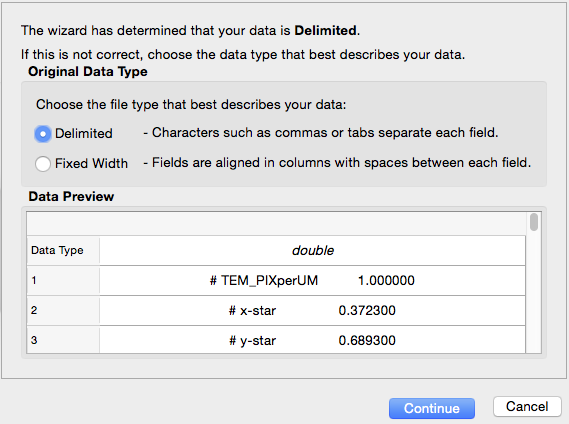
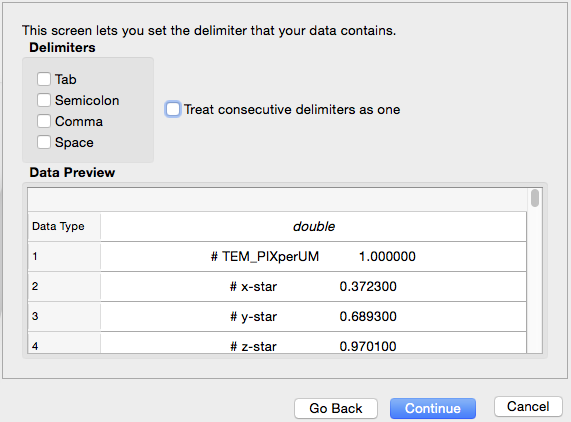
BUG: Fix columns not resizing into a scrollable interface. Updating documentation images to reflect the actual filter. Adding additional details to a few of the error messages in the ImageASCIIData filter Adding a debug() function to the ASCIIWizardData class Add another constructor to the LineCount
updates #564. fixes #564. closes #564

diff --git a/Source/Plugins/IO/Widgets/ImportASCIIDataWizard/ImportASCIIDataWizard.cpp b/Source/Plugins/IO/Widgets/ImportASCIIDataWizard/ImportASCIIDataWizard.cpp
@@ -40,6 +40,7 @@
 #include "DelimitedPage.h"
 #include "DataFormatPage.h"
 #include "ASCIIDataModel.h"
+#include "ASCIIWizardData.hpp"
 
 // -----------------------------------------------------------------------------
 //
@@ -64,6 +65,87 @@ ImportASCIIDataWizard::ImportASCIIDataWizard(const QString &inputFilePath, int n
 
   DataFormatPage* dfPage = new DataFormatPage(inputFilePath, numLines, this);
   setPage(DataFormat, dfPage);
+
+#ifndef Q_OS_MAC
+  setWizardStyle(ModernStyle);
+#else
+  setWizardStyle(MacStyle);
+#endif
+}
+
+// -----------------------------------------------------------------------------
+//
+// -----------------------------------------------------------------------------
+ImportASCIIDataWizard::ImportASCIIDataWizard(ASCIIWizardData* wizardData, QWidget* parent) :
+QWizard(parent)
+{
+  setWindowTitle("ASCII Data Import Wizard");
+  setOptions(QWizard::NoBackButtonOnStartPage /*| QWizard::HaveHelpButton */);
+  setWindowFlags(windowFlags() & ~Qt::WindowContextHelpButtonHint);
+  resize(721, 683);
+
+  // This adds the refresh button that refreshes the preview table.  We may use this on a future release.
+  //m_RefreshBtn = new QPushButton("Refresh", this);
+  //connect(m_RefreshBtn, SIGNAL(pressed()), this, SLOT(refreshModel()));
+  //setButton(QWizard::HelpButton, m_RefreshBtn);
+
+  DelimitedPage* dPage = new DelimitedPage(m_InputFilePath, m_NumLines, this);
+  setPage(Delimited, dPage);
+
+  DataFormatPage* dfPage = new DataFormatPage(m_InputFilePath, m_NumLines, this);
+  setPage(DataFormat, dfPage);
+  dfPage->getTupleTable()->clearTupleDimensions();
+  dfPage->getTupleTable()->addTupleDimensions(wizardData->tupleDims);
+
+
+  setField("consecutiveDelimiters", wizardData->consecutiveDelimiters);
+
+  setField("tabAsDelimiter", false);
+  setField("semicolonAsDelimiter", false);
+  setField("commaAsDelimiter", false);
+  setField("spaceAsDelimiter", false);
+
+
+  if(wizardData->delimiters.contains('\t'))
+  {
+    setField("tabAsDelimiter", true);
+  }
+  if(wizardData->delimiters.contains(';'))
+  {
+     setField("semicolonAsDelimiter", true);
+  }
+  if(wizardData->delimiters.contains(','))
+  {
+    setField("commaAsDelimiter", true);
+  }
+  if(wizardData->delimiters.contains(' '))
+  {
+    setField("spaceAsDelimiter", true);
+  }
+
+  m_InputFilePath = wizardData->inputFilePath;
+
+  QStringList dataHeaders = wizardData->dataHeaders;
+
+  ASCIIDataModel* model = ASCIIDataModel::Instance();
+  if(model->columnCount() < dataHeaders.size())
+  {
+    model->clearContents();
+    model->insertColumns(0, dataHeaders.size());
+  }
+  for(int col = 0; col < dataHeaders.size(); col++)
+  {
+    model->setHeaderData(col, Qt::Horizontal, dataHeaders.at(col), Qt::DisplayRole);
+  }
+
+  setField("startRow", wizardData->beginIndex);
+  m_NumLines = wizardData->numberOfLines;
+
+  QStringList dataTypes = wizardData->dataTypes;
+  for(int i = 0; i < dataTypes.size(); i++)
+  {
+    model->setColumnDataType(i, dataTypes.at(i));
+  }
 
 #ifndef Q_OS_MAC
   setWizardStyle(ModernStyle);

diff --git a/Source/Plugins/IO/IOFilters/ImportASCIIData.cpp b/Source/Plugins/IO/IOFilters/ImportASCIIData.cpp
@@ -146,6 +146,7 @@ void ImportASCIIData::readFilterParameters(QJsonObject &obj)
     {
       tupleDims.push_back(static_cast<size_t>(jsonArray[i].toInt()));
     }
+
     m_WizardData.tupleDims = tupleDims;
   }
 }
@@ -252,14 +253,18 @@ void ImportASCIIData::dataCheck()
   AttributeMatrix::Pointer am = getDataContainerArray()->getAttributeMatrix(m_AttributeMatrixPath);
   if (NULL == am.get())
   {
-    QString ss = "The attribute matrix input is empty.  Please select an attribute matrix.";
+    QString ss = "The attribute matrix input is empty. Please select an attribute matrix.";
     setErrorCondition(EMPTY_ATTR_MATRIX);
     notifyErrorMessage(getHumanLabel(), ss, getErrorCondition());
     return;
   }
   else if (am->getTupleDimensions() != tDims)
   {
+
     QString ss = "The attribute matrix '" + m_AttributeMatrixPath.getAttributeMatrixName() + "' does not have the same tuple dimensions as the data in the file '" + fi.fileName() + "'.";
+    QTextStream out(&ss);
+    out << m_AttributeMatrixPath.getAttributeMatrixName() << " tuple dims: " << am->getTupleDimensions().at(0) << "\n";
+    out << fi.fileName() << "tuple dims: " << tDims[0] << "\n";
     setErrorCondition(INCONSISTENT_TUPLES);
     notifyErrorMessage(getHumanLabel(), ss, getErrorCondition());
     return;
@@ -472,7 +477,11 @@ void ImportASCIIData::execute()
 
       if (dataTypes.size() != tokens.size())
       {
-        QString ss = "Line " + QString::number(lineNum) + " has an inconsistent number of columns.";
+        QString ss = "Line " + QString::number(lineNum) + " has an inconsistent number of columns.\n";
+        QTextStream out(&ss);
+        out << "Expecting " << dataTypes.size() << " but found " << tokens.size() << "\n";
+        out << "Input line was:\n";
+        out << line;
         setErrorCondition(INCONSISTENT_COLS);
         notifyErrorMessage(getHumanLabel(), ss, getErrorCondition());
         return;

diff --git a/Source/Plugins/IO/Widgets/ImportASCIIDataWizard/LineCounterObject.h b/Source/Plugins/IO/Widgets/ImportASCIIDataWizard/LineCounterObject.h
@@ -42,29 +42,44 @@
 
 class LineCounterObject : public QObject
 {
-  Q_OBJECT
+    Q_OBJECT
 
-public:
-  LineCounterObject(const QString &filePath, QObject *parent = NULL);
+  public:
 
-  virtual ~LineCounterObject();
+    /**
+   * @brief LineCounterObject
+   * @param filePath
+   * @param parent
+   */
+    LineCounterObject(const QString &filePath, QObject *parent = NULL);
 
-  int getNumberOfLines();
+    /**
+   * @brief LineCounterObject
+   * @param filePath
+   * @param numLines
+   * @param parent
+   */
+    LineCounterObject(const QString &filePath, int numLines, QObject *parent = NULL);
 
-protected slots:
-  void run();
+    virtual ~LineCounterObject();
 
-signals:
-  void finished();
-  void progressUpdateGenerated(double percentage);
 
-private:
-  QString                                               m_FilePath;
+    int getNumberOfLines();
 
-  int                                                   m_NumOfLines;
+  protected slots:
+    void run();
 
-  LineCounterObject(const LineCounterObject&); // Copy Constructor Not Implemented
-  void operator=(const LineCounterObject&); // Operator '=' Not Implemented
+  signals:
+    void finished();
+    void progressUpdateGenerated(double percentage);
+
+  private:
+    QString                                               m_FilePath;
+
+    int                                                   m_NumOfLines;
+
+    LineCounterObject(const LineCounterObject&); // Copy Constructor Not Implemented
+    void operator=(const LineCounterObject&); // Operator '=' Not Implemented
 };
 
 #endif /* _linecounterobject_h_ */

diff --git a/Source/Plugins/IO/Widgets/ImportASCIIDataWizard/TupleTableWidget.cpp b/Source/Plugins/IO/Widgets/ImportASCIIDataWizard/TupleTableWidget.cpp
@@ -111,6 +111,22 @@ void TupleTableWidget::addTupleDimensions(QVector<size_t> tupleDims)
 // -----------------------------------------------------------------------------
 //
 // -----------------------------------------------------------------------------
+void TupleTableWidget::clearTupleDimensions()
+{
+
+  while(tupleTable->columnCount() > 0)
+  {
+    tupleTable->removeColumn(0);
+    if (tupleTable->columnCount() == 0)
+    {
+      tupleTable->removeRow(0);
+    }
+  }
+}
+
+// -----------------------------------------------------------------------------
+//
+// -----------------------------------------------------------------------------
 void TupleTableWidget::addColumn(int value)
 {
   int col = tupleTable->columnCount();

diff --git a/Source/Plugins/IO/Widgets/ImportASCIIDataWizard/ASCIIWizardData.hpp b/Source/Plugins/IO/Widgets/ImportASCIIDataWizard/ASCIIWizardData.hpp
@@ -37,6 +37,7 @@
 #ifndef _asciiwizarddata_h_
 #define _asciiwizarddata_h_
 
+#include <QtCore/QDebug>
 #include <QtCore/QVector>
 #include <QtCore/QStringList>
 #include <QtCore/QMetaType>
@@ -69,6 +70,19 @@ public:
       return true;
     }
     return false;
+  }
+
+  void debug()
+  {
+      qDebug() << "inputFilePath: " << inputFilePath;
+      qDebug() << "dataHeaders: " << dataHeaders;
+      qDebug() << "beginIndex: " << beginIndex;
+      qDebug() << "numberOfLines: " << numberOfLines;
+      qDebug() << "dataTypes:" << dataTypes;
+      qDebug() << "delimiters: " << delimiters;
+      qDebug() << "consecutiveDelimiters: " << consecutiveDelimiters;
+      qDebug() << "tupleDims:" << tupleDims;
+
   }
 };
 

diff --git a/Source/Plugins/IO/FilterParameterWidgets/ImportASCIIDataWidget.cpp b/Source/Plugins/IO/FilterParameterWidgets/ImportASCIIDataWidget.cpp
@@ -104,8 +104,16 @@ void ImportASCIIDataWidget::setupGui()
   // If the filter was loaded from a pipeline file, fill in the information in the widget
   if (m_Filter->getWizardData().isEmpty() == false)
   {
+
+    ASCIIWizardData wizardData = m_Filter->getWizardData();
+    m_ImportWizard = new ImportASCIIDataWizard(&wizardData, this);
+
     int beginIndex = m_Filter->getWizardData().beginIndex;
     int numOfDataLines = m_Filter->getWizardData().numberOfLines - beginIndex + 1;
+
+    m_LineCounter = new LineCounterObject(m_FilePath, m_Filter->getWizardData().numberOfLines);
+
+
     QVector<size_t> tupleDimsArray = m_Filter->getWizardData().tupleDims;
 
     if (tupleDimsArray.size() > 0)

diff --git a/Source/Plugins/IO/Widgets/ImportASCIIDataWizard/LineCounterObject.cpp b/Source/Plugins/IO/Widgets/ImportASCIIDataWizard/LineCounterObject.cpp
@@ -53,6 +53,17 @@ LineCounterObject::LineCounterObject(const QString &filePath, QObject* parent) :
 // -----------------------------------------------------------------------------
 //
 // -----------------------------------------------------------------------------
+LineCounterObject::LineCounterObject(const QString &filePath, int numLines, QObject* parent) :
+  QObject(parent),
+  m_FilePath(filePath),
+  m_NumOfLines(numLines)
+{
+
+}
+
+// -----------------------------------------------------------------------------
+//
+// -----------------------------------------------------------------------------
 LineCounterObject::~LineCounterObject()
 {
 

diff --git a/Source/Plugins/IO/Widgets/ImportASCIIDataWizard/ImportASCIIDataWizard.h b/Source/Plugins/IO/Widgets/ImportASCIIDataWizard/ImportASCIIDataWizard.h
@@ -51,6 +51,7 @@ struct ImportASCIIDataBundle
 Q_DECLARE_METATYPE(ImportASCIIDataBundle)
 
 class ASCIIDataModel;
+class ASCIIWizardData;
 
 class ImportASCIIDataWizard : public QWizard
 {
@@ -70,6 +71,12 @@ class ImportASCIIDataWizard : public QWizard
     * @param parent The parent QWidget for this Widget
     */
     ImportASCIIDataWizard(const QString &inputFilePath, int numLines, QWidget* parent = NULL);
+
+    /**
+     * @brief ImportASCIIDataWizard
+     * @param wizardData
+     */
+    ImportASCIIDataWizard(ASCIIWizardData* wizardData, QWidget* parent = NULL);
 
     virtual ~ImportASCIIDataWizard();
 

diff --git a/Source/Plugins/IO/Widgets/ImportASCIIDataWizard/DataFormatPage.cpp b/Source/Plugins/IO/Widgets/ImportASCIIDataWizard/DataFormatPage.cpp
@@ -72,7 +72,7 @@ void DataFormatPage::setupGui()
   ASCIIDataModel* model = ASCIIDataModel::Instance();
 
   dataView->setModel(model);
-  dataView->horizontalHeader()->setSectionResizeMode(QHeaderView::Stretch);
+//  dataView->horizontalHeader()->setSectionResizeMode(QHeaderView::Stretch);
 
   connect(dataView->selectionModel(), SIGNAL(selectionChanged(const QItemSelection&, const QItemSelection&)), this, SLOT(updateSelection(const QItemSelection&, const QItemSelection&)));
   connect(tupleDimsTable, SIGNAL(tupleDimsChanged(QVector<size_t>)), this, SLOT(checkTupleDimensions(QVector<size_t>)));

diff --git a/Source/Plugins/IO/Widgets/ImportASCIIDataWizard/DelimitedPage.cpp b/Source/Plugins/IO/Widgets/ImportASCIIDataWizard/DelimitedPage.cpp
@@ -68,7 +68,7 @@ void DelimitedPage::setupGui()
   refreshModel();
 
   dataView->setModel(model);
-  dataView->horizontalHeader()->setSectionResizeMode(QHeaderView::Stretch);
+  //dataView->horizontalHeader()->setSectionResizeMode(QHeaderView::Stretch);
 
   registerField("tabAsDelimiter", tabCheckBox);
   registerField("semicolonAsDelimiter", semicolonCheckBox);

diff --git a/Source/Plugins/IO/Widgets/ImportASCIIDataWizard/TupleTableWidget.h b/Source/Plugins/IO/Widgets/ImportASCIIDataWizard/TupleTableWidget.h
@@ -71,6 +71,7 @@ class TupleTableWidget : public QWidget, private Ui::TupleTableWidget
     QVector<size_t> getData();
 
     void addTupleDimensions(QVector<size_t> tupleDims);
+    void clearTupleDimensions();
 
   public slots:
     void on_addTupleBtn_pressed();

diff --git a/Source/Plugins/IO/Documentation/IOFilters/ImportASCIIData.md b/Source/Plugins/IO/Documentation/IOFilters/ImportASCIIData.md
@@ -11,13 +11,11 @@ This **Filter** reads ASCII data from any text-based file and imports the data i
 
 ### Separating the Data ###
 
-After clicking the **Import Data...** button and selecting a file, a wizard appears.  The user can choose whether their data is **Delimited** or **Fixed Width**:
+After clicking the **Import Data...** button and selecting a file, a wizard appears. The user can choose how the data is delimited: comma (,), tab, semicolon (;) or space ( ). The user may also elect to treat consecutive delimiters as one delimiter.
 
 ![Selecting how the data is separated](Import_ASCII_1.png)
 
 ### Selecting the Delimiter ###
-
-If the user chose **Delimited**, the next screen allows the user to pick delimiters.  The options are **Tab**, **Semicolon**, **Comma**, and **Space**.  The user may also elect to treat consecutive delimiters as one delimiter.
 
 ![Selecting the delimiting character(s)](Import_ASCII_2.png)
 
